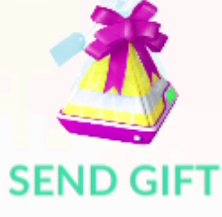
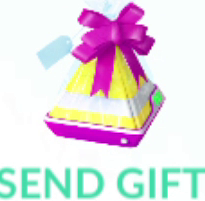
updates

diff --git a/gen_images.py b/gen_images.py
@@ -26,8 +26,8 @@ def main():
 
     m = MLPictureGen()
     # m.capture_on_two_click('open_gift_page', './PokemonGo/images/FriendGifting/')
-    m.capture_on_two_click('gift_received_profile', './PokemonGo/images/FriendGifting/')
-    #m.capture_on_two_click('can_send_gift_profile', './PokemonGo/images/FriendGifting/')
+    # m.capture_on_two_click('gift_received_profile', './PokemonGo/images/FriendGifting/')
+    m.capture_on_two_click('can_send_gift_profile', './PokemonGo/images/FriendGifting/')
     time.sleep(100)
 
 

diff --git a/CardPrototyping/card_SendGifts/SendGifts.py b/CardPrototyping/card_SendGifts/SendGifts.py
@@ -129,7 +129,8 @@ class SendGifts(GenericCardTemplate()):
                 print("Sending gift")
                 send_gift()
                 print("Changing profile")
-                change_profile()
+            change_profile()
+
         # print("initiating for: ")
         # for i in range(num_pokemon):
         #     print(i / num_pokemon, '% left: ', num_pokemon - i)

diff --git a/settings.py b/settings.py
@@ -1,1 +1,1 @@
-SCREEN_SCALE_FACTOR=0.5
+SCREEN_SCALE_FACTOR = 0.5
